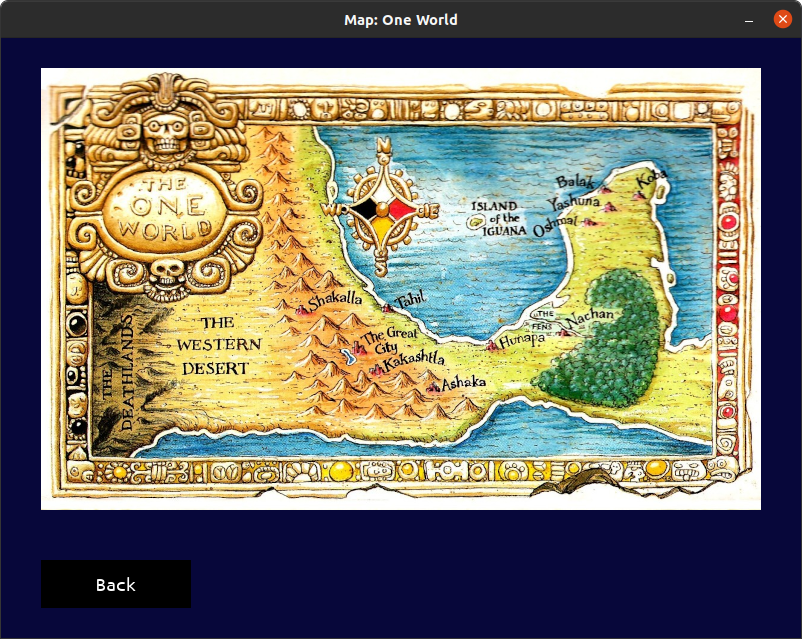
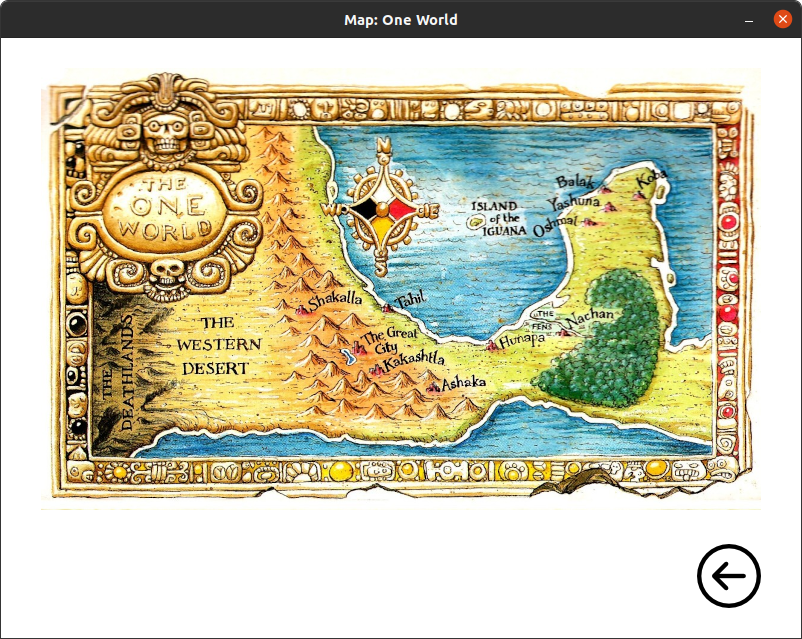
update map screen

diff --git a/src/skulls.cpp b/src/skulls.cpp
@@ -424,15 +424,16 @@ bool mapScreen(SDL_Window *window, SDL_Renderer *renderer)
         const int map_buttonh = 48;
         const int map_buttony = (int)(SCREEN_HEIGHT * (1 - Margin) - map_buttonh);
 
-        std::vector<TextButton> controls = {TextButton(0, "Back", 0, 0, 0, 0, startx, map_buttony, map_buttonw, map_buttonh, Control::Type::BACK)};
+        std::vector<Button> controls = {Button(0, "images/back-button.png", 0, 0, 0, 0, (1 - Margin) * SCREEN_WIDTH - buttonw, buttony, Control::Type::BACK)};
 
         while (!quit)
         {
             // Fill the surface with background color
-            fillWindow(renderer, intDB);
+            fillWindow(renderer, intWH);
 
             renderImage(renderer, splash, startx, starty);
-            renderTextButtons(renderer, controls, "fonts/default.ttf", current, clrWH, intBK, intRD, 20, TTF_STYLE_NORMAL);
+
+            renderButtons(renderer, controls, current, intGR, 8, 4);
 
             bool scrollUp = false;
             bool scrollDown = false;
